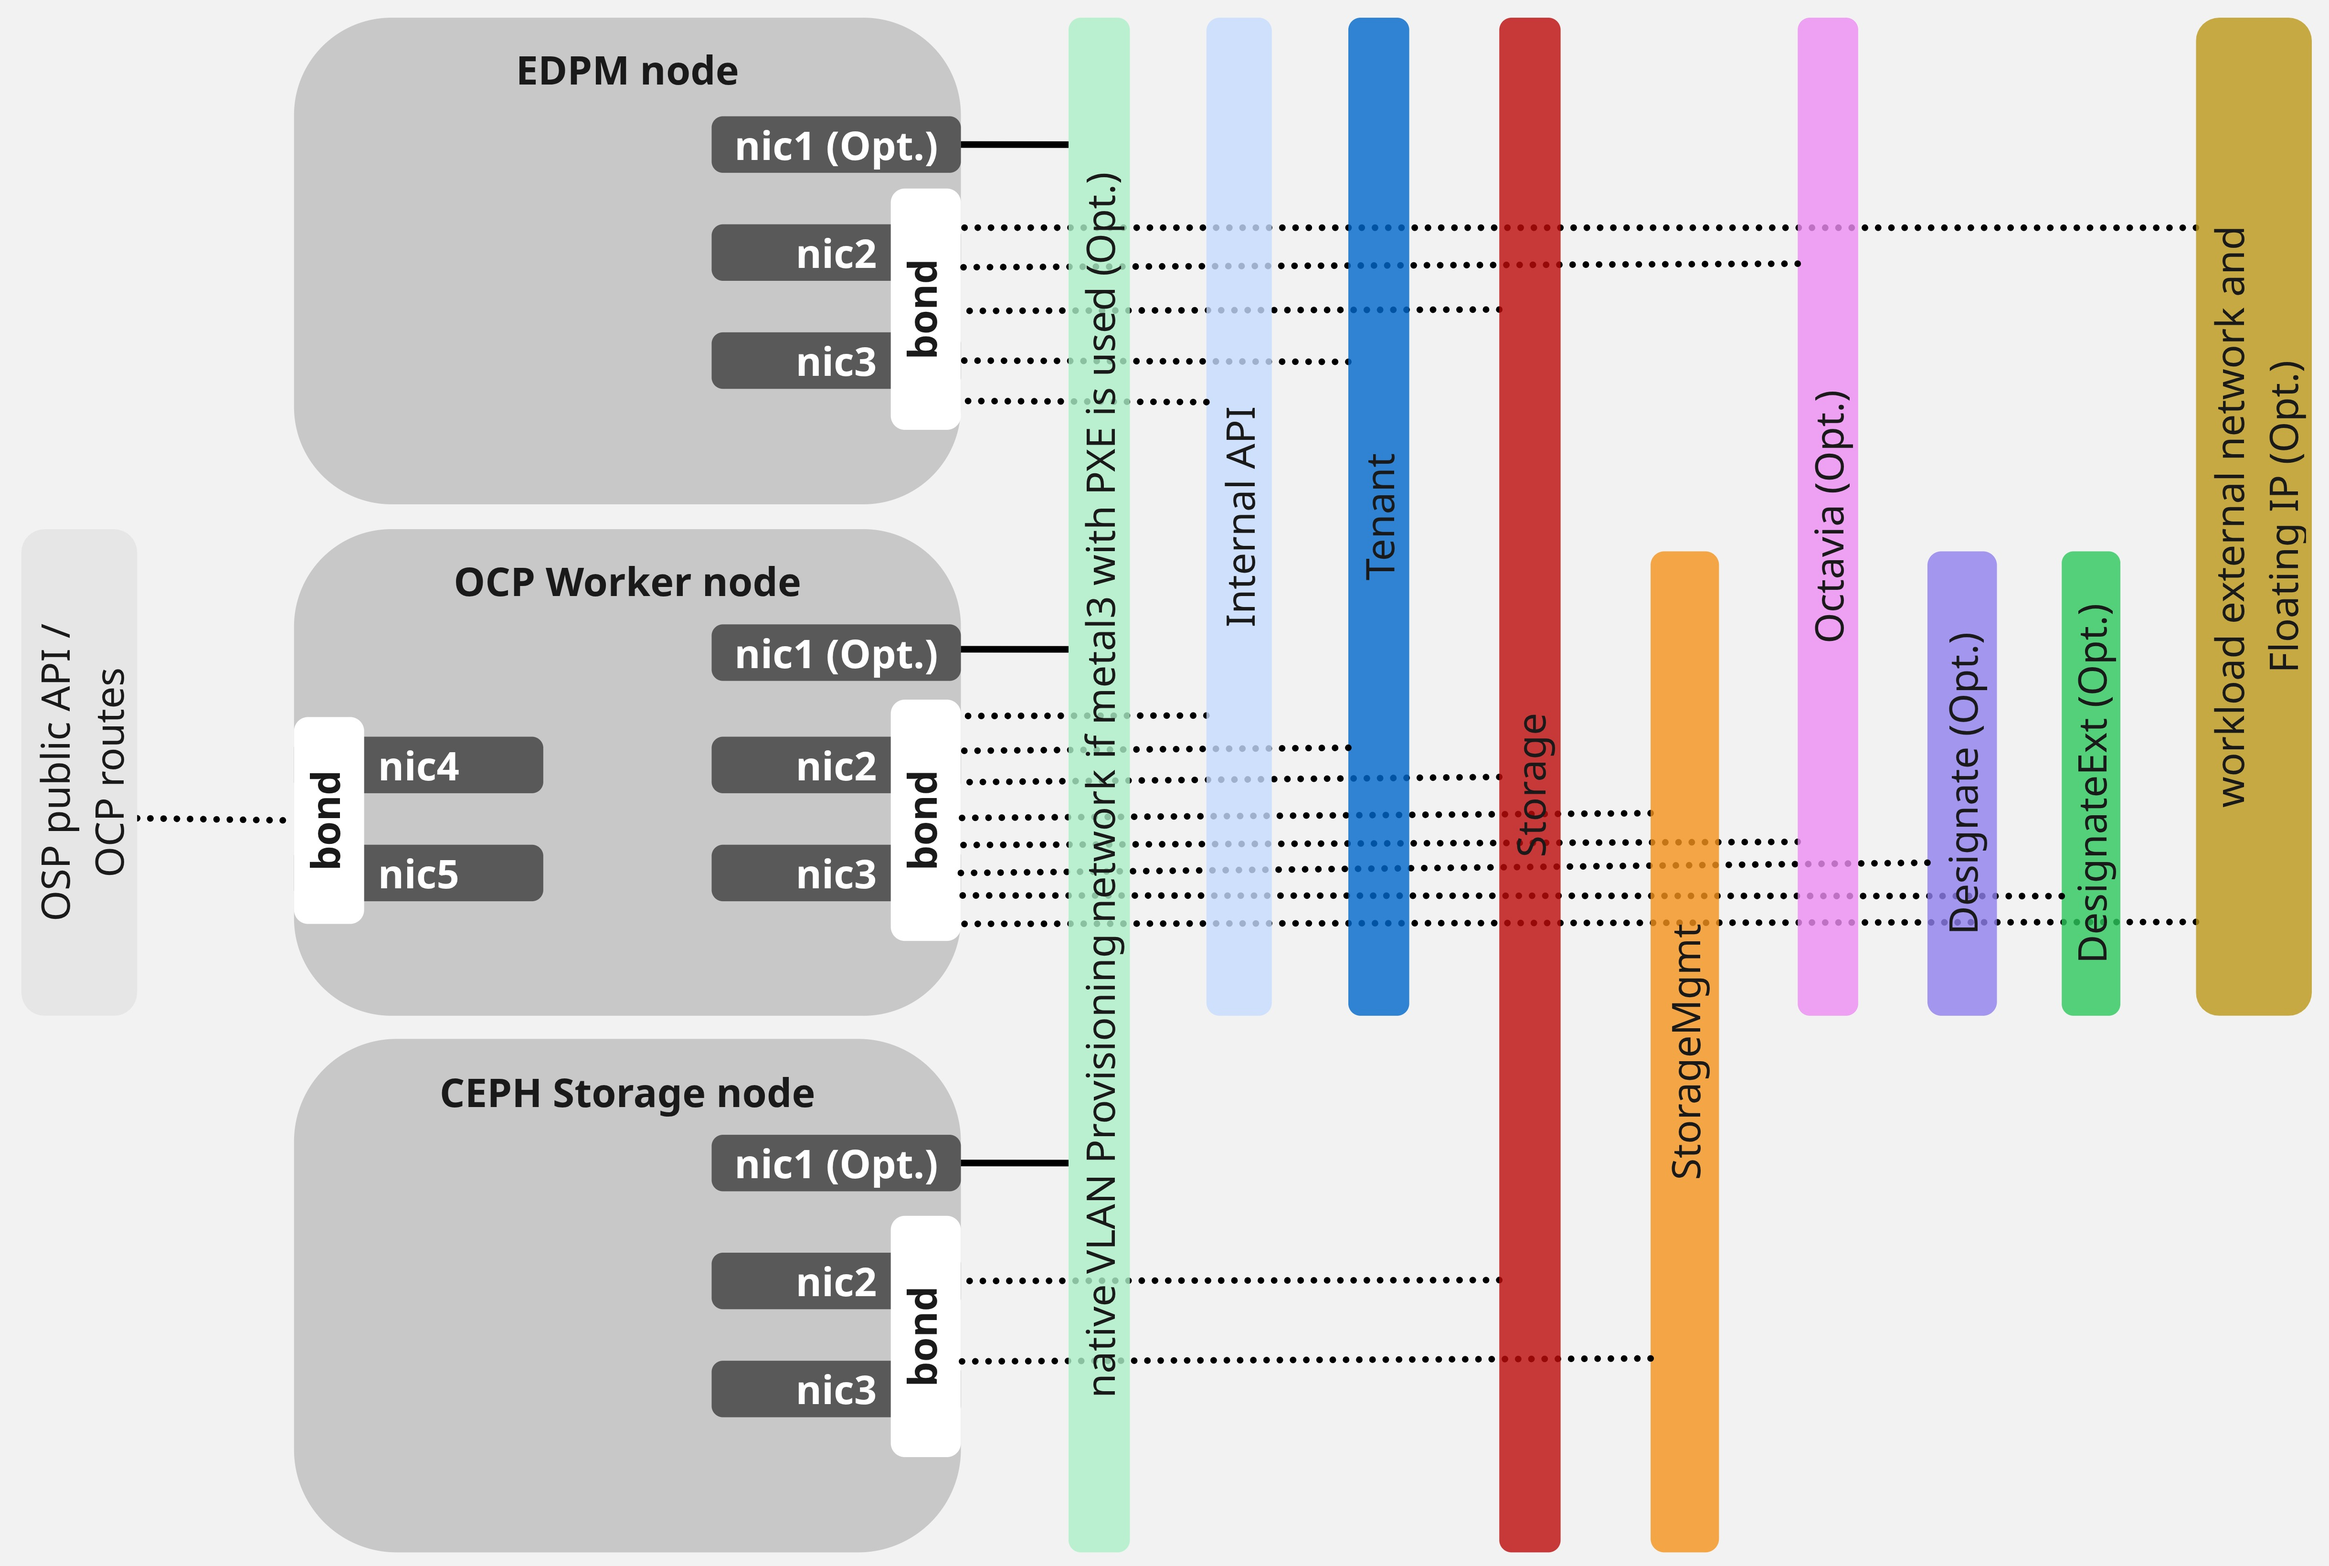
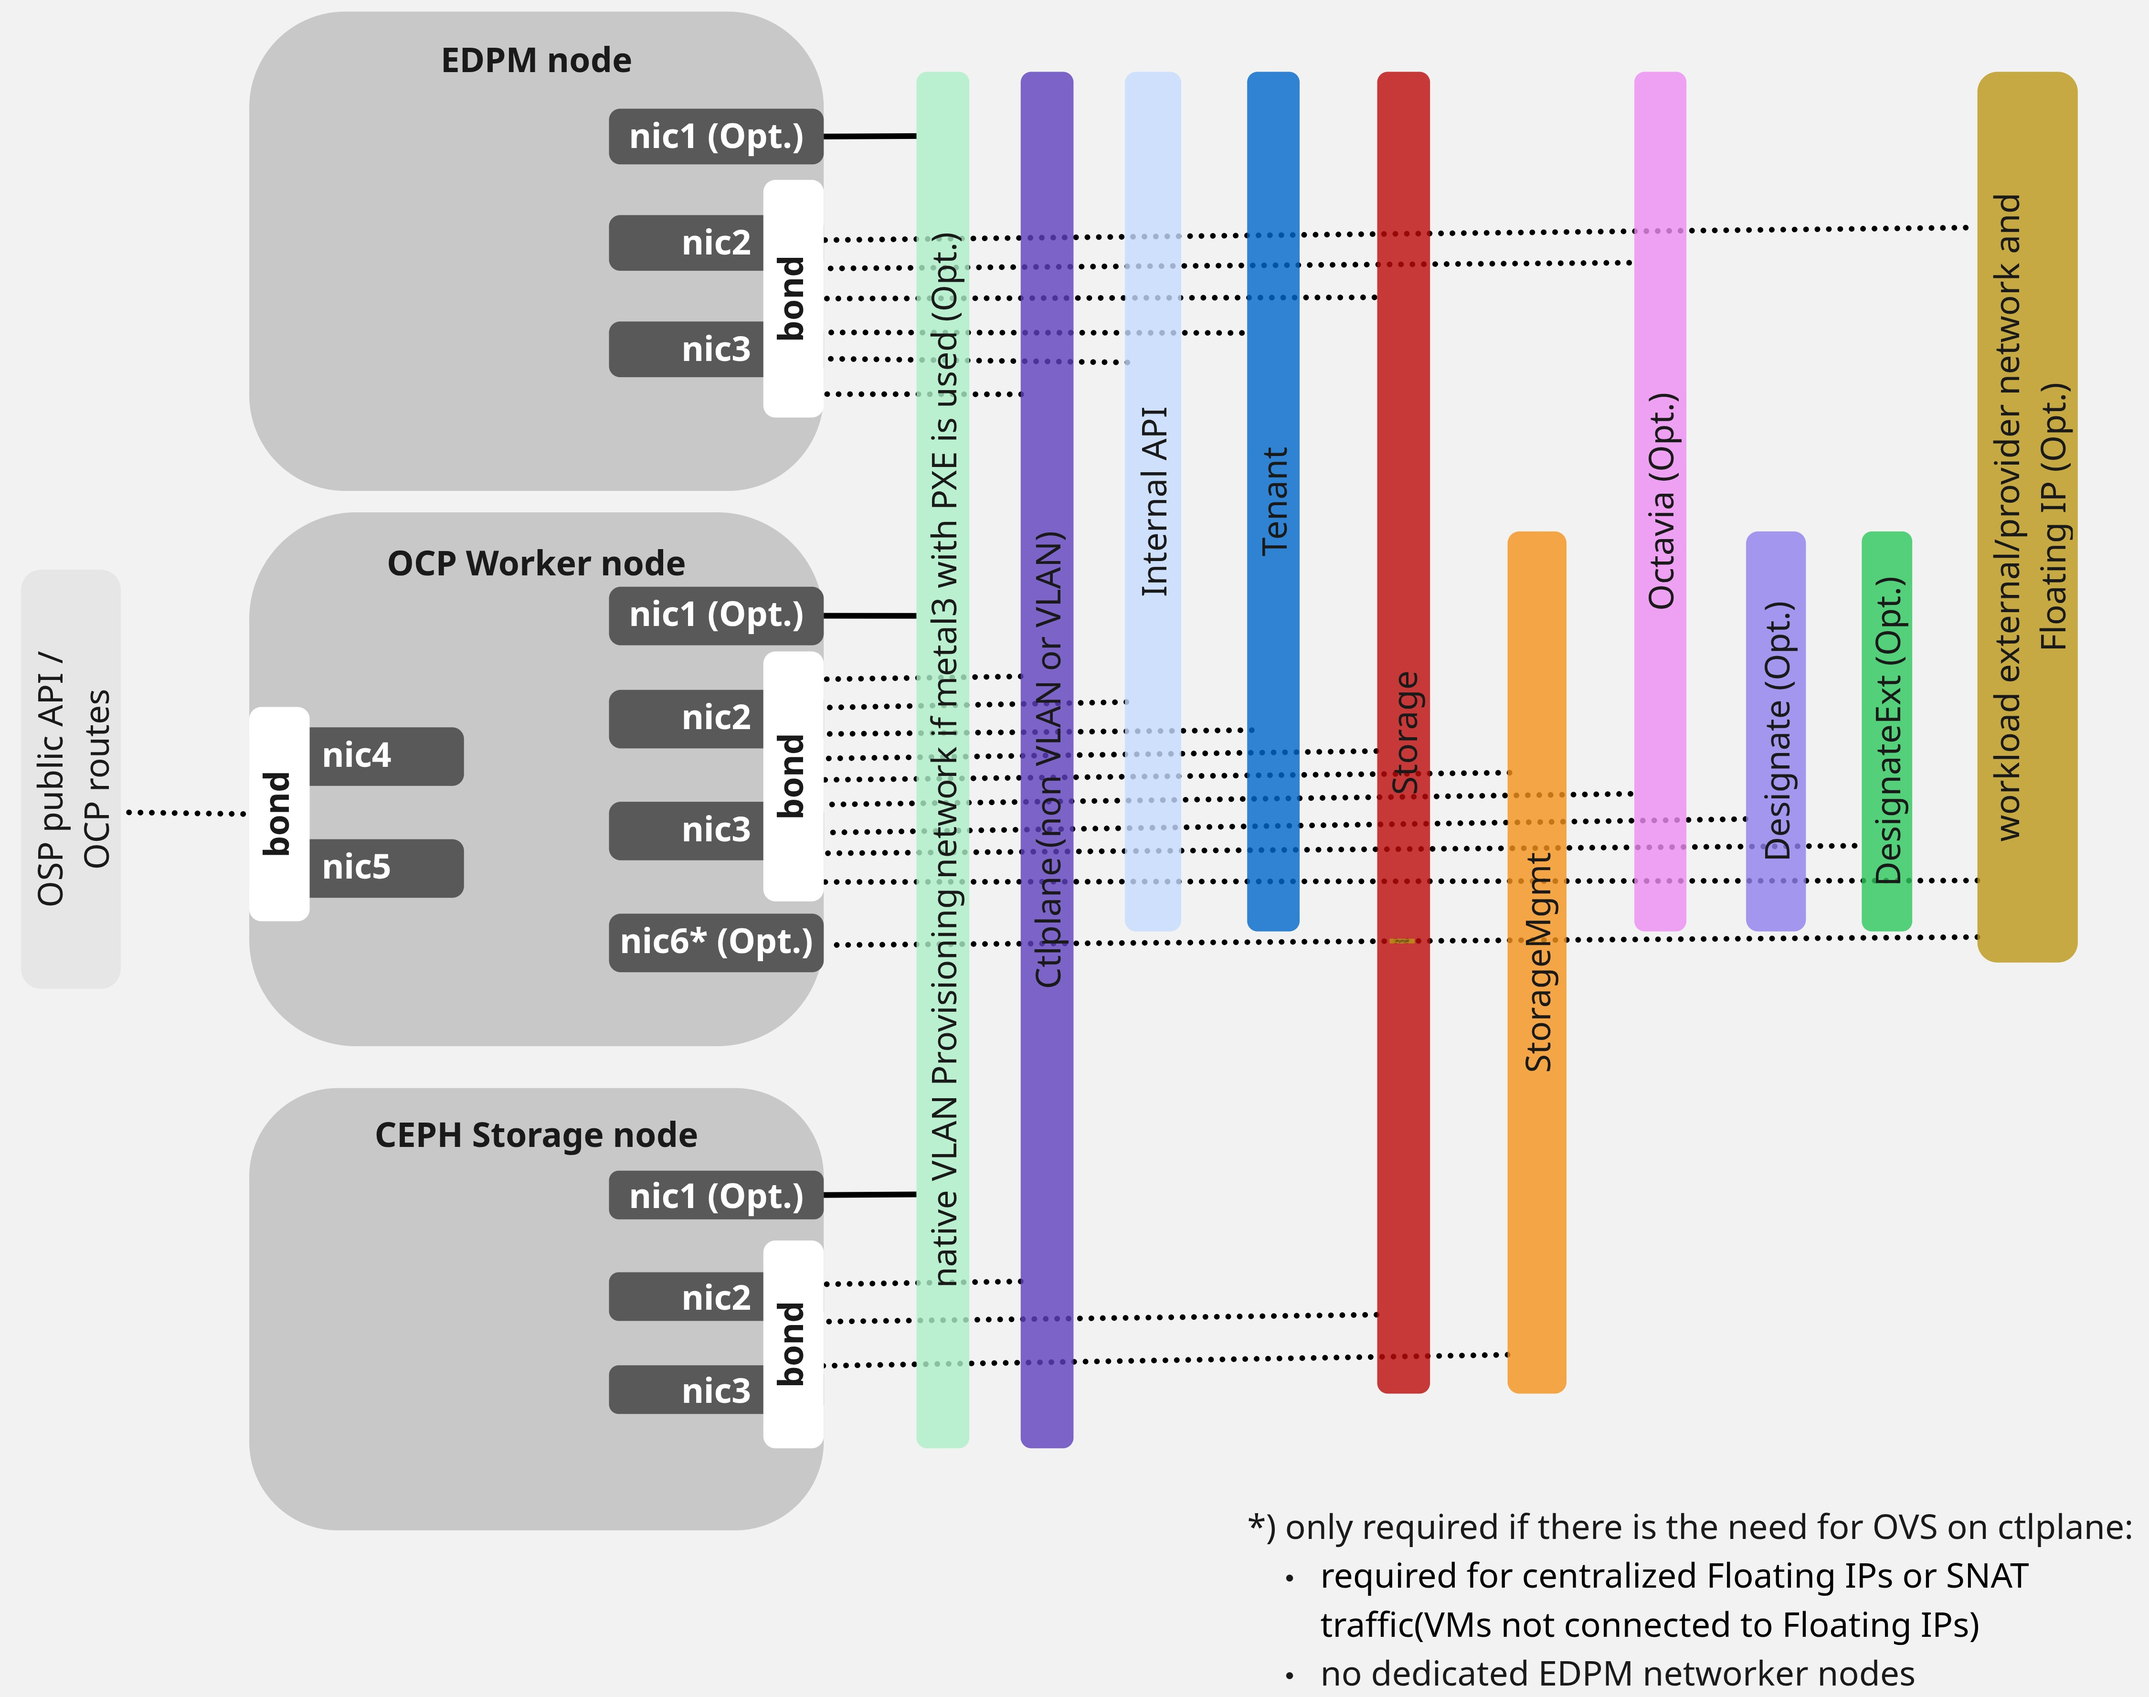
Fix network overview image
* added ctlplane network
* added optional provider networks with dedicated nic on OCP workers

diff --git a/networking.md b/networking.md
@@ -8,6 +8,8 @@
 
 The diagram below provides an example of a network topology where the networks are isolated on separate VLANs. Each node uses an optional nic1 which can be used for provisioning the base operating system using metal3. Additional two interfaces (nic2 and nic3) in a bond to deliver the OpenStack networks over their respective VLANs. The OCP worker nodes has an additional bond (nic4 and nic5 used for the OCP cluster traffic and exposing the OCP routes.
 
+If provider networks are used, a dedicated nic is required on OCP workers (nic6), as here OVS running in a pod and host-device pluging moves node NIC to pod network namespace (ovs-bridge creation, interface add, ovn-bridge-mappings set are taken care by ovn-operator). On EDPM nodes it can be shared the requirement for provider network is to have an OVS bridge (backed by physical NIC or bond) and that bridge/NIC can have other RHOSO networks configured.
+
 ![Network topology](images/network_overview.jpg)
 
 ### Ingress
